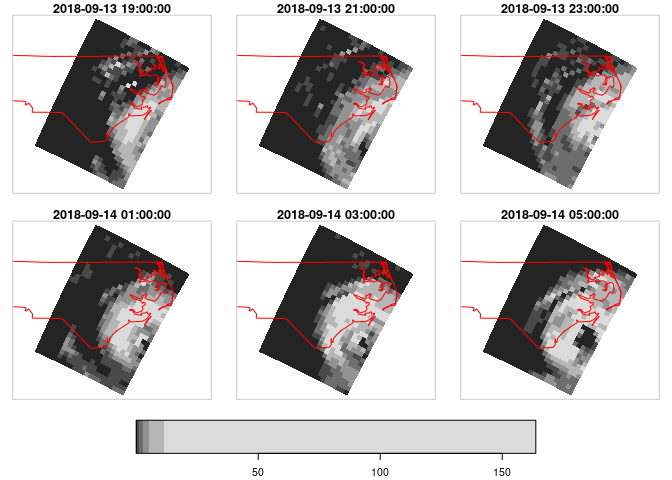
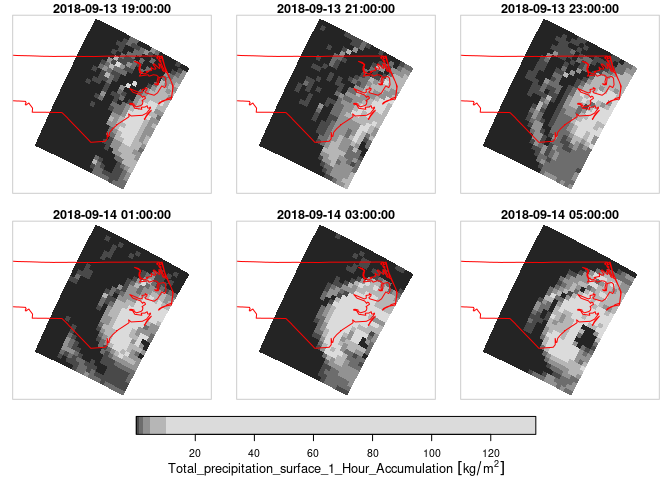
use base pipe

diff --git a/README.md b/README.md
@@ -48,10 +48,10 @@ suppressPackageStartupMessages(library(dplyr))
 library(stars)
 # Loading required package: abind
 # Loading required package: sf
-# Linking to GEOS 3.10.2, GDAL 3.4.3, PROJ 8.2.1; sf_use_s2() is TRUE
+# Linking to GEOS 3.11.1, GDAL 3.6.2, PROJ 9.1.1; sf_use_s2() is TRUE
 tif = system.file("tif/L7_ETMs.tif", package = "stars")
-read_stars(tif) %>%
-  slice(index = 1, along = "band") %>%
+read_stars(tif) |>
+  slice(index = 1, along = "band") |>
   plot()
 ```
 
@@ -115,8 +115,8 @@ methods(class = "stars_proxy")
 # [25] select          show            slice           slotsFromS3    
 # [29] split           st_apply        st_as_sf        st_as_stars    
 # [33] st_crop         st_dimensions<- st_downsample   st_mosaic      
-# [37] st_redimension  st_sample       st_set_bbox     transmute      
-# [41] write_stars    
+# [37] st_normalize    st_redimension  st_sample       st_set_bbox    
+# [41] transmute       write_stars    
 # see '?methods' for accessing help and source code
 ```
 
@@ -130,27 +130,27 @@ prec_file = system.file("nc/test_stageiv_xyt.nc", package = "stars")
 (prec = read_stars(gdal_subdatasets(prec_file)[[1]]))
 # stars object with 3 dimensions and 1 attribute
 # attribute(s):
-#                                            Min. 1st Qu. Median     Mean 3rd Qu.
-# Total_precipitation_surface_1_... [kg/m^2]    0       0   0.75 4.143009    4.63
-#                                              Max.
-# Total_precipitation_surface_1_... [kg/m^2] 163.75
+#                                         Min. 1st Qu. Median     Mean 3rd Qu.
+# Total_precipitation_surface... [kg/m^2]    0       0   0.75 4.143009    4.63
+#                                           Max.
+# Total_precipitation_surface... [kg/m^2] 163.75
 # dimension(s):
 #      from  to                  offset   delta  refsys
 # x       1  87                      NA      NA  WGS 84
 # y       1 118                      NA      NA  WGS 84
 # time    1  23 2018-09-13 19:00:00 UTC 1 hours POSIXct
-#                                      values x/y
-# x    [87x118] -80.6113 [°],...,-74.8822 [°] [x]
-# y      [87x118] 32.4413 [°],...,37.6193 [°] [y]
-# time                                   NULL    
+#                                  values x/y
+# x    [87x118] -80.61 [°],...,-74.88 [°] [x]
+# y      [87x118] 32.44 [°],...,37.62 [°] [y]
+# time                               NULL    
 # curvilinear grid
 # or: (prec = read_ncdf(prec_file, curvilinear = c("lon", "lat"), ignore_bounds = TRUE))
-sf::read_sf(system.file("gpkg/nc.gpkg", package = "sf"), "nc.gpkg") %>%
+sf::read_sf(system.file("gpkg/nc.gpkg", package = "sf"), "nc.gpkg") |> 
   st_transform(st_crs(prec)) -> nc # transform from NAD27 to WGS84
 nc_outline = st_union(st_geometry(nc))
 plot_hook = function() plot(nc_outline, border = 'red', add = TRUE)
-prec %>%
-  slice(index = 1:12, along = "time") %>%
+prec |>
+  slice(index = 1:12, along = "time") |>
   plot(downsample = c(3, 3, 1), hook = plot_hook)
 ```
 
@@ -173,9 +173,9 @@ and then the corresponding time value:
 
 ``` r
 index_max = function(x) ifelse(all(is.na(x)), NA, which.max(x))
-st_apply(a, "geom", index_max) %>%
-  mutate(when = st_get_dimension_values(a, "time")[.$index_max]) %>%
-  select(when) %>%
+b = st_apply(a, "geom", index_max)
+b |>  mutate(when = st_get_dimension_values(a, "time")[b$index_max]) |>
+  select(when) |>
   plot(key.pos = 1, main = "time of maximum precipitation")
 ```
 
